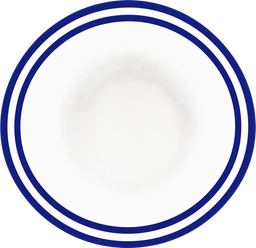
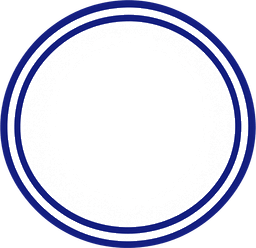
fix: 그림에 남아 있던 글자 자국을 지우고 안 쓰는 프레임 43장 정리
등급 도장 다섯 장과 달력·클립보드 가운데에 글자를 지운 회색 얼룩이 남아
있었다. 화면에서 가운데가 지저분해 보이던 원인이다. 무채색만 골라 미는
스크립트를 만들어 지웠다 — 팔레트에 무채색이 없으니 강조색은 남는다.

애니메이션을 뺀 뒤로 anim/ 51장 중 8장만 쓰고 있었다. 나머지를 지우고
쓰는 장은 눈으로 확인한 뒤 뜻이 담긴 이름(pose-jump 등)으로 바꿨다.
프레임 번호표와 그걸 만들던 장치도 같이 걷어냈다.

Changed region(s): [[0.4375, 0.254, 0.625, 0.3387], [0.625, 0.3387, 0.6875, 0.4234]]

diff --git a/src/components/domain/kid-character.tsx b/src/components/domain/kid-character.tsx
@@ -1,31 +1,26 @@
 import { Illustration } from "@/components/ui/illustration";
-import { ANIM_FRAMES } from "@/lib/anim-frames";
 import { cn } from "@/lib/utils";
 
 /**
  * 아이 캐릭터.
  *
- * 프레임을 넘겨 가며 움직이던 것을 걷어냈다. 받은 연속 그림이 서로 이어지지 않고
- * 중간에 다른 인물이나 장식이 섞인 장이 있어서, 움직일수록 완성도가 떨어져 보였다.
- * 걸러 내고 속도를 맞춰도 끊긴 느낌이 남아, 지금은 **동작마다 가장 잘 읽히는 한 장**만 쓴다.
+ * 동작마다 **그림 한 장**이다. 프레임을 넘겨 가며 움직이던 것을 걷어냈다 —
+ * 받은 연속 그림이 서로 이어지지 않고 중간에 다른 인물이나 장식이 섞인 장이 있어서,
+ * 움직일수록 완성도가 떨어져 보였다.
  *
- * `anim-frames.ts` 는 쓸 수 있는 프레임 번호표로 계속 쓴다 — 그 안에서 한 장을 고른다.
- * 프레임이 제대로 다시 오면 여기서 다시 이어 붙인다.
+ * 쓰는 장은 눈으로 하나씩 확인해서 골랐다. 그래서 번호 대신 뜻이 담긴 이름을 쓴다 —
+ * `anim/pose-jump.png` 는 공중에 뜬 장면이지 점프 동작의 5번째 칸이 아니다.
  */
-
-/**
- * pick  그 동작이 가장 잘 읽히는 지점(0~1). 점프는 공중, 앉기는 가장 낮은 자세.
- *       1번 프레임은 대개 그냥 서 있는 모습이라 밋밋하다
- */
+/* 경로를 통째로 적는다. 합쳐 만들면 에셋 검사기가 쓰는 줄 모른다 */
 const POSE = {
-  idle: { pick: 0, fallback: "move/move-walk" },
-  jump: { pick: 0.55, fallback: "move/move-long-jump" },
-  run: { pick: 0.5, fallback: "move/move-shuttle-run" },
-  stretch: { pick: 0.34, fallback: "move/move-stretch-leg" },
-  squat: { pick: 0.5, fallback: "move/move-squat" },
-  cheer: { pick: 0.5, fallback: "scene/scene-done" },
-  tired: { pick: 0.8, fallback: "move/move-walk" },
-  wave: { pick: 0.34, fallback: "move/move-walk" },
+  idle: { file: "anim/pose-idle", fallback: "move/move-walk" },
+  jump: { file: "anim/pose-jump", fallback: "move/move-long-jump" },
+  run: { file: "anim/pose-run", fallback: "move/move-shuttle-run" },
+  stretch: { file: "anim/pose-stretch", fallback: "move/move-stretch-leg" },
+  squat: { file: "anim/pose-squat", fallback: "move/move-squat" },
+  cheer: { file: "anim/pose-cheer", fallback: "scene/scene-done" },
+  rest: { file: "anim/pose-rest", fallback: "move/move-walk" },
+  wave: { file: "anim/pose-wave", fallback: "move/move-walk" },
 } as const;
 
 export type Motion = keyof typeof POSE;
@@ -39,15 +34,10 @@ export function KidCharacter({
   size?: number;
   className?: string;
 }) {
-  const { pick, fallback } = POSE[motion];
-
-  // 격자나 장식이 섞여 잘못 뽑힌 장은 이 목록에 없다
-  const frames = ANIM_FRAMES[motion] ?? [1];
-  const frame = frames[Math.min(frames.length - 1, Math.round(pick * (frames.length - 1)))];
-
+  const { file, fallback } = POSE[motion];
   return (
     <Illustration
-      name={`anim/${motion}-${frame}`}
+      name={file}
       fallback={fallback}
       size={size}
       className={cn("shrink-0", className)}

diff --git a/src/app/kid/page.tsx b/src/app/kid/page.tsx
@@ -151,7 +151,7 @@ export default function KidHomePage() {
             />
           ) : (
             <div className="border-line rounded-3xl border-2 border-dashed p-6 text-center">
-              <KidCharacter motion="tired" size={110} className="mx-auto" />
+              <KidCharacter motion="rest" size={110} className="mx-auto" />
               <p className="mt-3 text-xl font-extrabold">오늘은 쉬는 날이에요</p>
               <p className="text-ink-soft mt-1 text-sm">쉬는 것도 하는 일이에요</p>
             </div>
